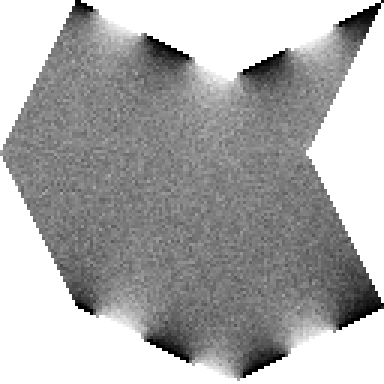
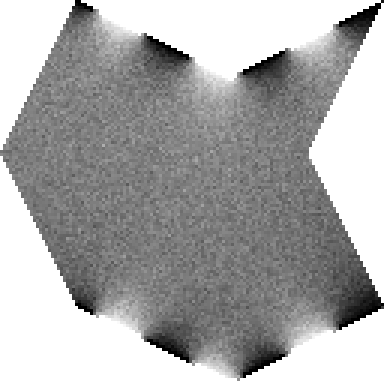
Start working on silhouette diagrams

diff --git a/tutorial/WoSt-tutorial.tex b/tutorial/WoSt-tutorial.tex
@@ -149,8 +149,8 @@ A good place to start understanding WoSt is the simpler \emph{walk on spheres (W
    \end{minipage}
    \begin{minipage}{150pt}
       \centering
-      \includegraphics[width=150pt]{images/WoSt-1024wpp.png} \\
-      \figlabel{1024 walks/point}
+      \includegraphics[width=150pt]{images/WoSt-65536wpp.png} \\
+      \figlabel{reference}
    \end{minipage}
    \caption{Example walks taken by the WoS algorithm are shown at \figloc{top, left}.  Averaging more and more boundary values (marked by white points) yields a smoother and smoother solution estimate.\label{fig:WoSExample}}
 \end{figure}
@@ -225,6 +225,8 @@ The function \(\code{length}\) computes the length of the given vector, and the 
 \label{sec:ClosestSilhouettePointQuery}
 
 \begin{figure}[h!]
+   \includesvg{images/AtomicClosestSilhouette.svg} \\
+
    \todo{Diagram showing a pair of segments that are and are not a silhouette relative to the query point.}
    \caption{A point \(\vec{b}\) is a \emph{silhouette point} if the segments \(\vec{a}\vec{b}\) and \(\vec{b}\vec{c}\) are front- and back-facing relative to a point \(\vec{x}\), or vice-versa.}
 \end{figure}
@@ -266,7 +268,7 @@ Finally, given a point \(\vec{x}\) and a direction \(\vec{v}\), a \emph{closest 
 
 \inputminted[fontsize=\small,linenos,firstline=90,lastline=113,bgcolor=bg]{cpp}{../code/WoStLaplace2D.cpp}
 
-Notice that we compute the location \code{x} and normal \code{n} of the intersection point, as well as a flag \code{onBoundary} indicating whether the hit occurred on the domain boundary (rather than the sphere), which we'll need for the WoSt algorithm.  As is common practice in ray tracing, we also offset the ray origin by a small distance \code{c} so that the intersection point we find is not just the ray origin \code{x}; a more numerically robust treatment of ray offsetting is described by \citet{wachter2019fast}.
+Notice that we compute the location \(x\) and normal \(n\) of the intersection point, as well as a flag \code{onBoundary} indicating whether the hit occurred on the domain boundary (rather than the sphere), which we'll need for the WoSt algorithm.  As is common practice in ray tracing, we also offset the ray origin by a small distance \(c\) so that the intersection point we find is not just the ray origin \(x\); a more numerically robust treatment of ray offsetting is described by \citet{wachter2019fast}.
 
 \section{Walk on Stars}
 \label{sec:WalkOnStars}
@@ -296,7 +298,7 @@ Next, we shoot a ray from the current point \(x\) in a random direction \(v\).  
 
 \inputminted[fontsize=\small,linenos,firstline=143,lastline=149,bgcolor=bg]{cpp}{../code/WoStLaplace2D.cpp}
 
-Recall that the routine \code{intersectPolylines} will also update the flag \code{onBoundary}, and sets the normal \(\vec{n}\) if the new point is on the boundary.  This loop continues taking steps along the walk until we get within \(\varepsilon\) of the boundary, or until we've exceeded the maximum number of steps---at this point we stop walking, and add the boundary contribution at the final location of \(\vec{x}\):
+Recall that the routine \code{intersectPolylines} will also update the flag \code{onBoundary}, and sets the normal \(n\) if the new point is on the boundary.  This loop continues taking steps along the walk until we get within a small distance \(\varepsilon\) of the Dirichlet boundary, or until we've exceeded the maximum number of steps---at this point we stop walking, and add the boundary contribution at the final location of \(\vec{x}\):
 
 \inputminted[fontsize=\small,linenos,firstline=151,lastline=159,bgcolor=bg]{cpp}{../code/WoStLaplace2D.cpp}
 

diff --git a/code/WoStLaplace2D.cpp b/code/WoStLaplace2D.cpp
@@ -120,10 +120,10 @@ double solve( Vec2D x0, // evaluation point
               vector<Polyline> boundaryDirichlet, // absorbing part of the boundary
               vector<Polyline> boundaryNeumann, // reflecting part of the boundary
               function<double(Vec2D)> g ) { // Dirichlet boundary values
-   const double eps = 0.01; // stopping tolerance
-   const double rMin = 0.01; // minimum step size
-   const int nWalks = 16384; // number of Monte Carlo samples
-   const int maxSteps = 100; // maximum walk length
+   const double eps = 0.0001; // stopping tolerance
+   const double rMin = 0.0001; // minimum step size
+   const int nWalks = 65536; // number of Monte Carlo samples
+   const int maxSteps = 65536; // maximum walk length
 
    double sum = 0.0; // running sum of boundary contributions
    for( int i = 0; i < nWalks; i++ ) {
@@ -152,6 +152,8 @@ double solve( Vec2D x0, // evaluation point
       }
       while(dDirichlet > eps && steps < maxSteps);
       //stop if we hit the Dirichlet boundary, or the walk is too long
+
+      if( steps >= maxSteps ) cerr << "Hit max steps" << endl;
 
       sum += g(x); // accumulate contribution of the boundary value
    }
